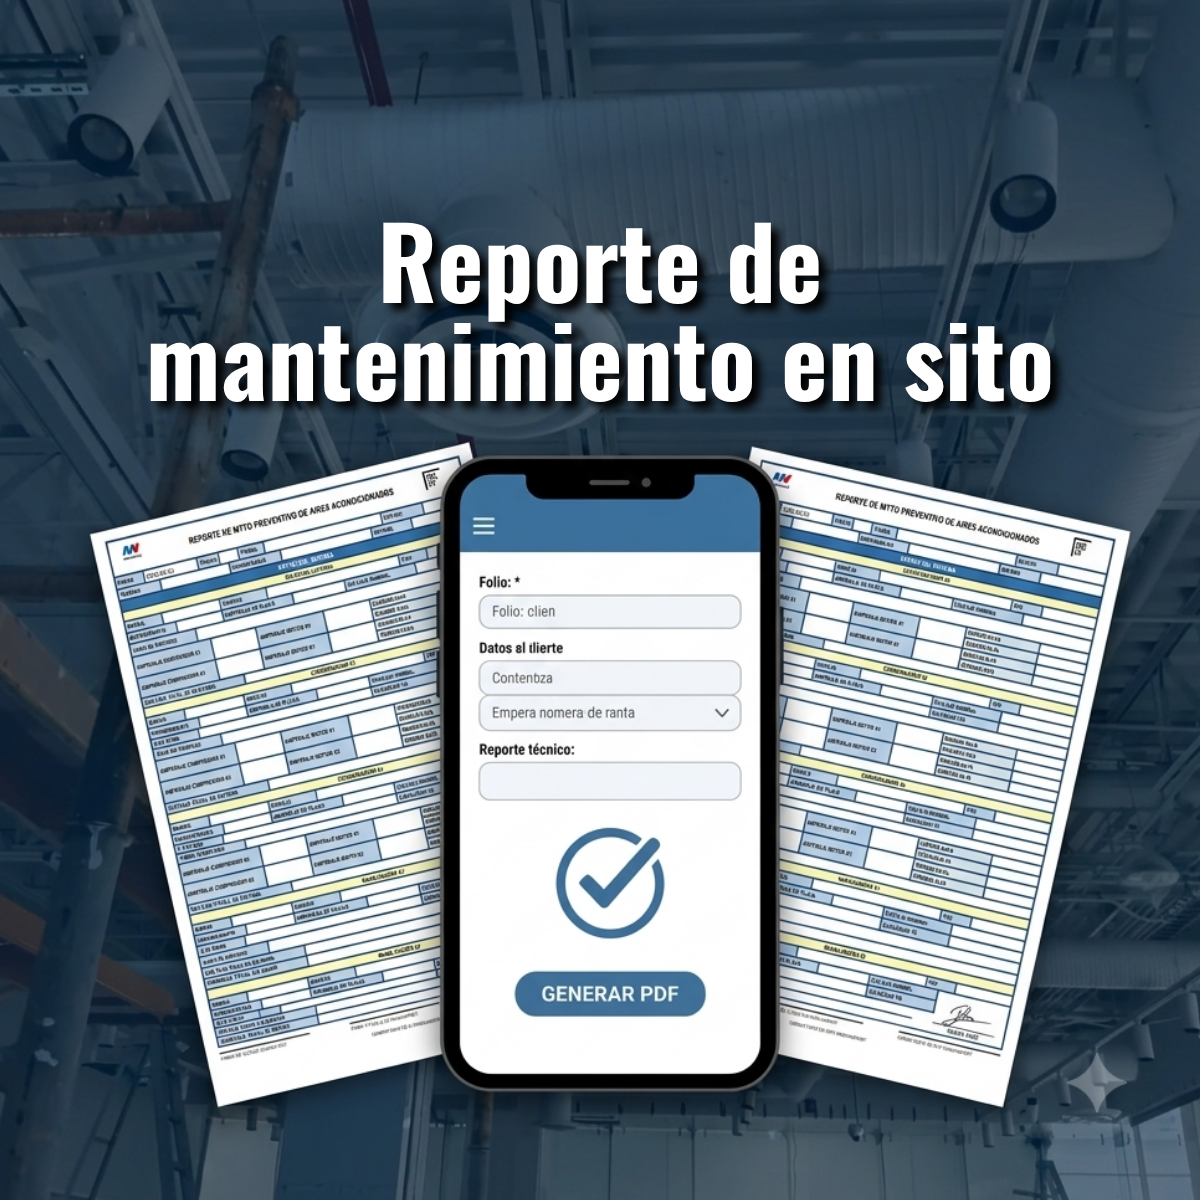
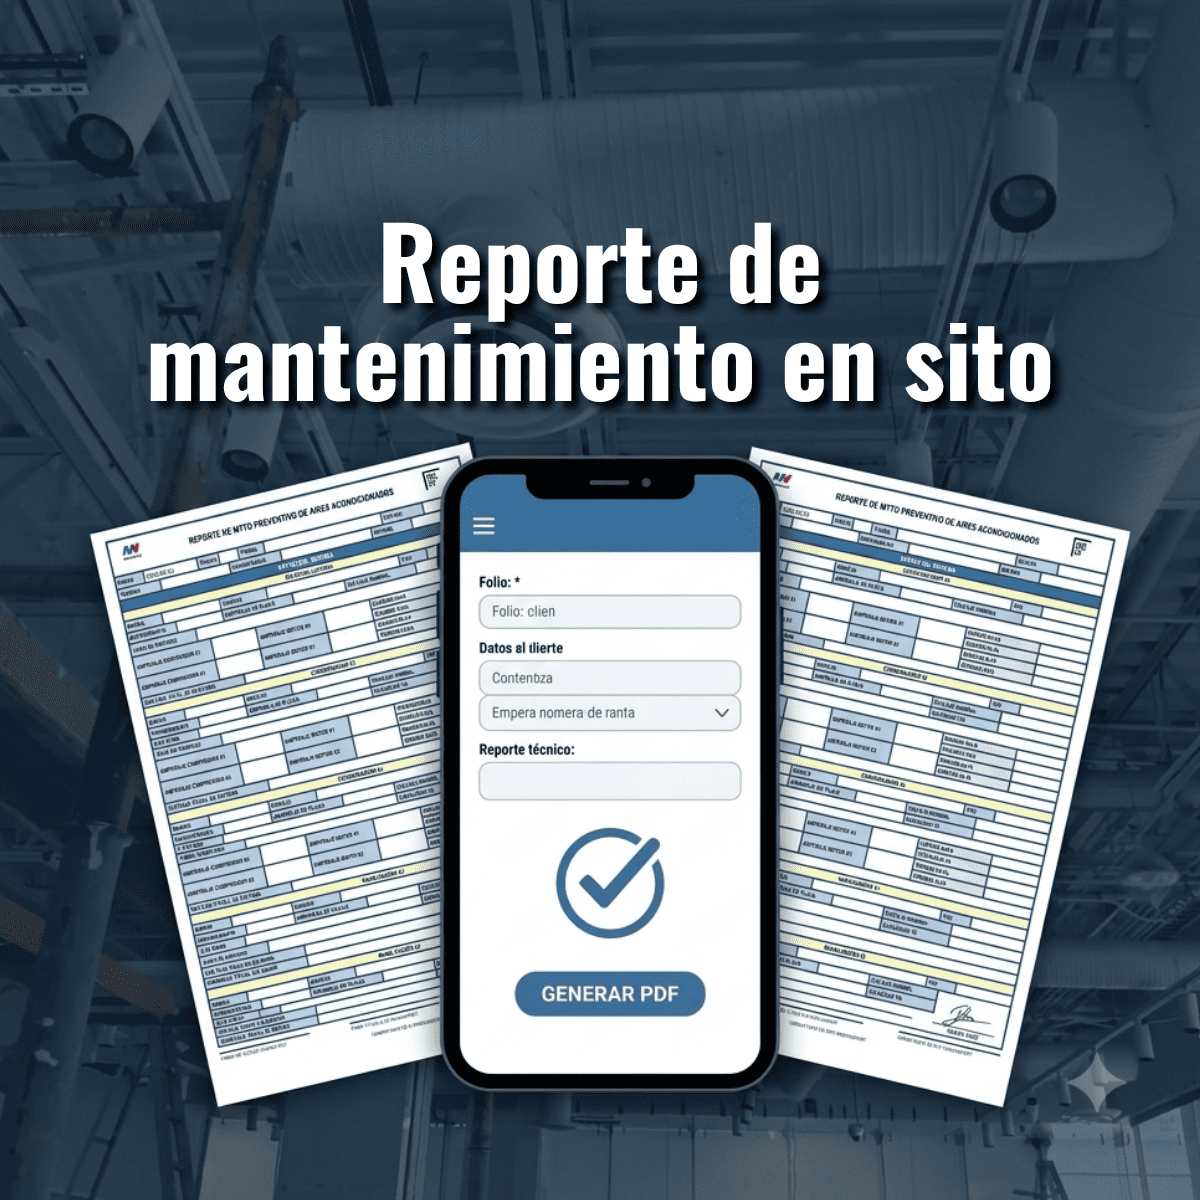
Fix: imagenes compirmidas

diff --git a/index.html b/index.html
@@ -80,7 +80,7 @@
         <!-- Tarjeta 2 -->
         <div class="project-card">
             <div class="project-image">
-                <img src="/images/FIFAS.png" alt="giftForFifas">
+                <img src="/images/GIFT.png" alt="giftForFifas">
             </div>
             <div class="project-info">
                 <h3>Gift for fifas</h3>